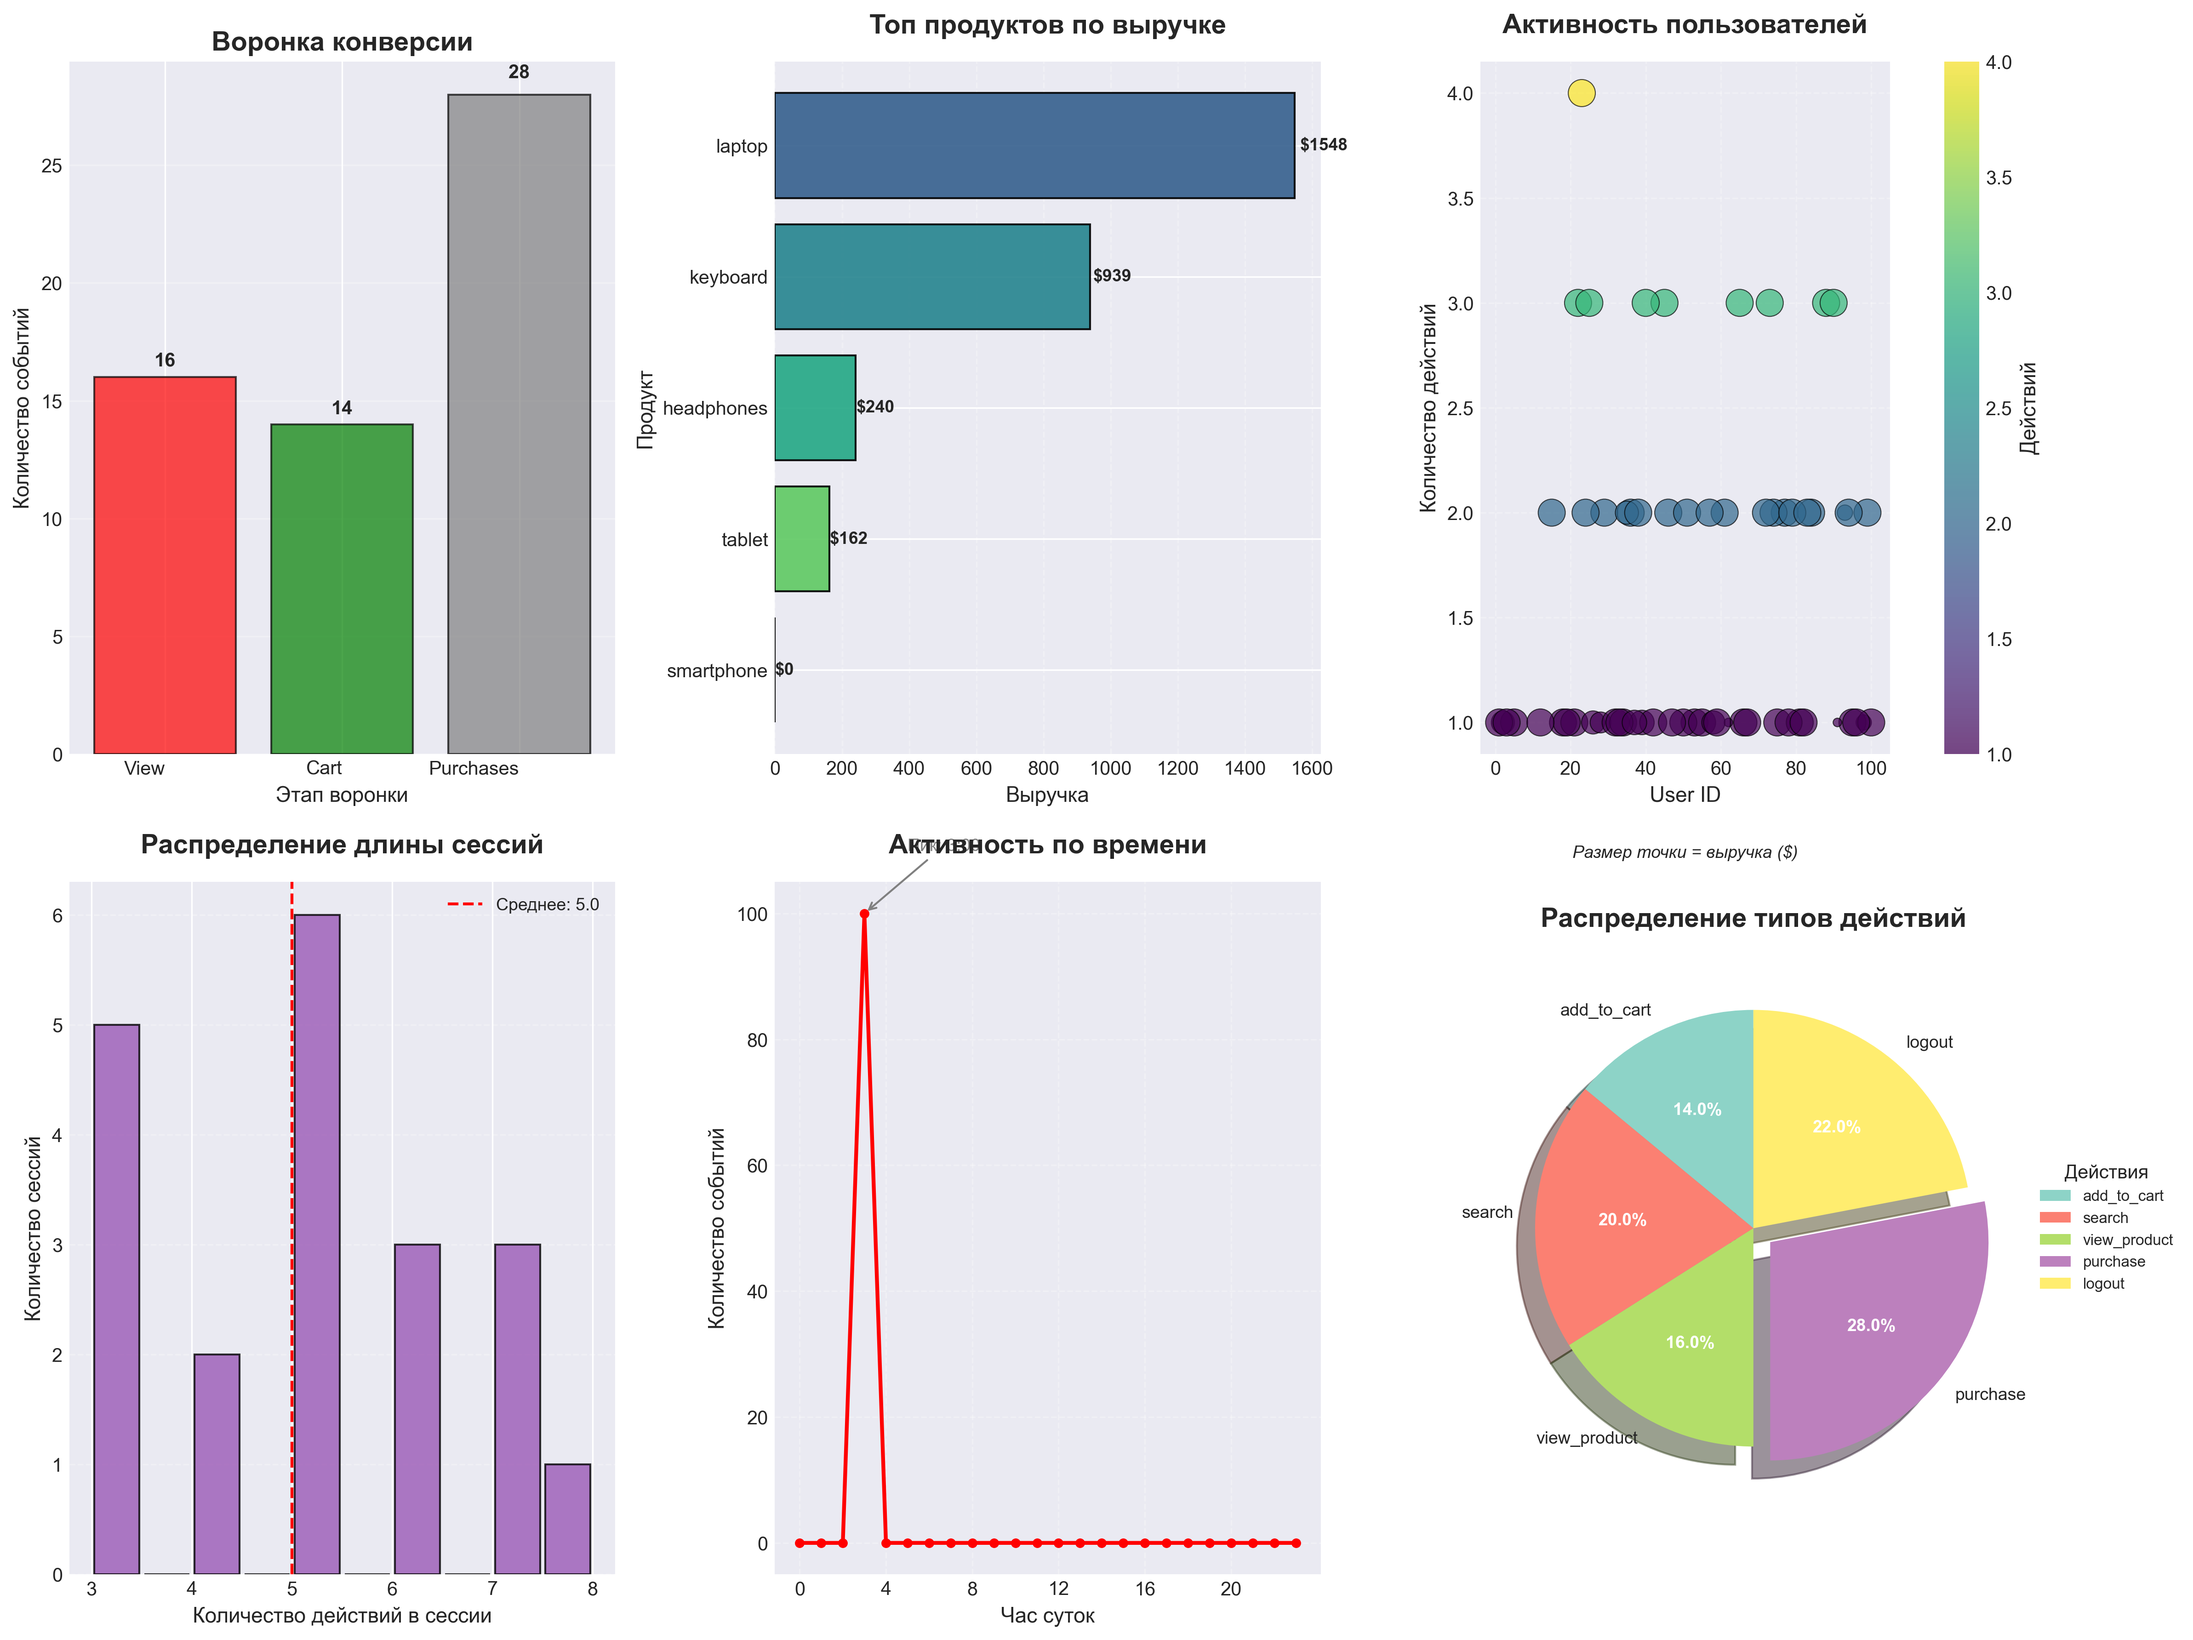
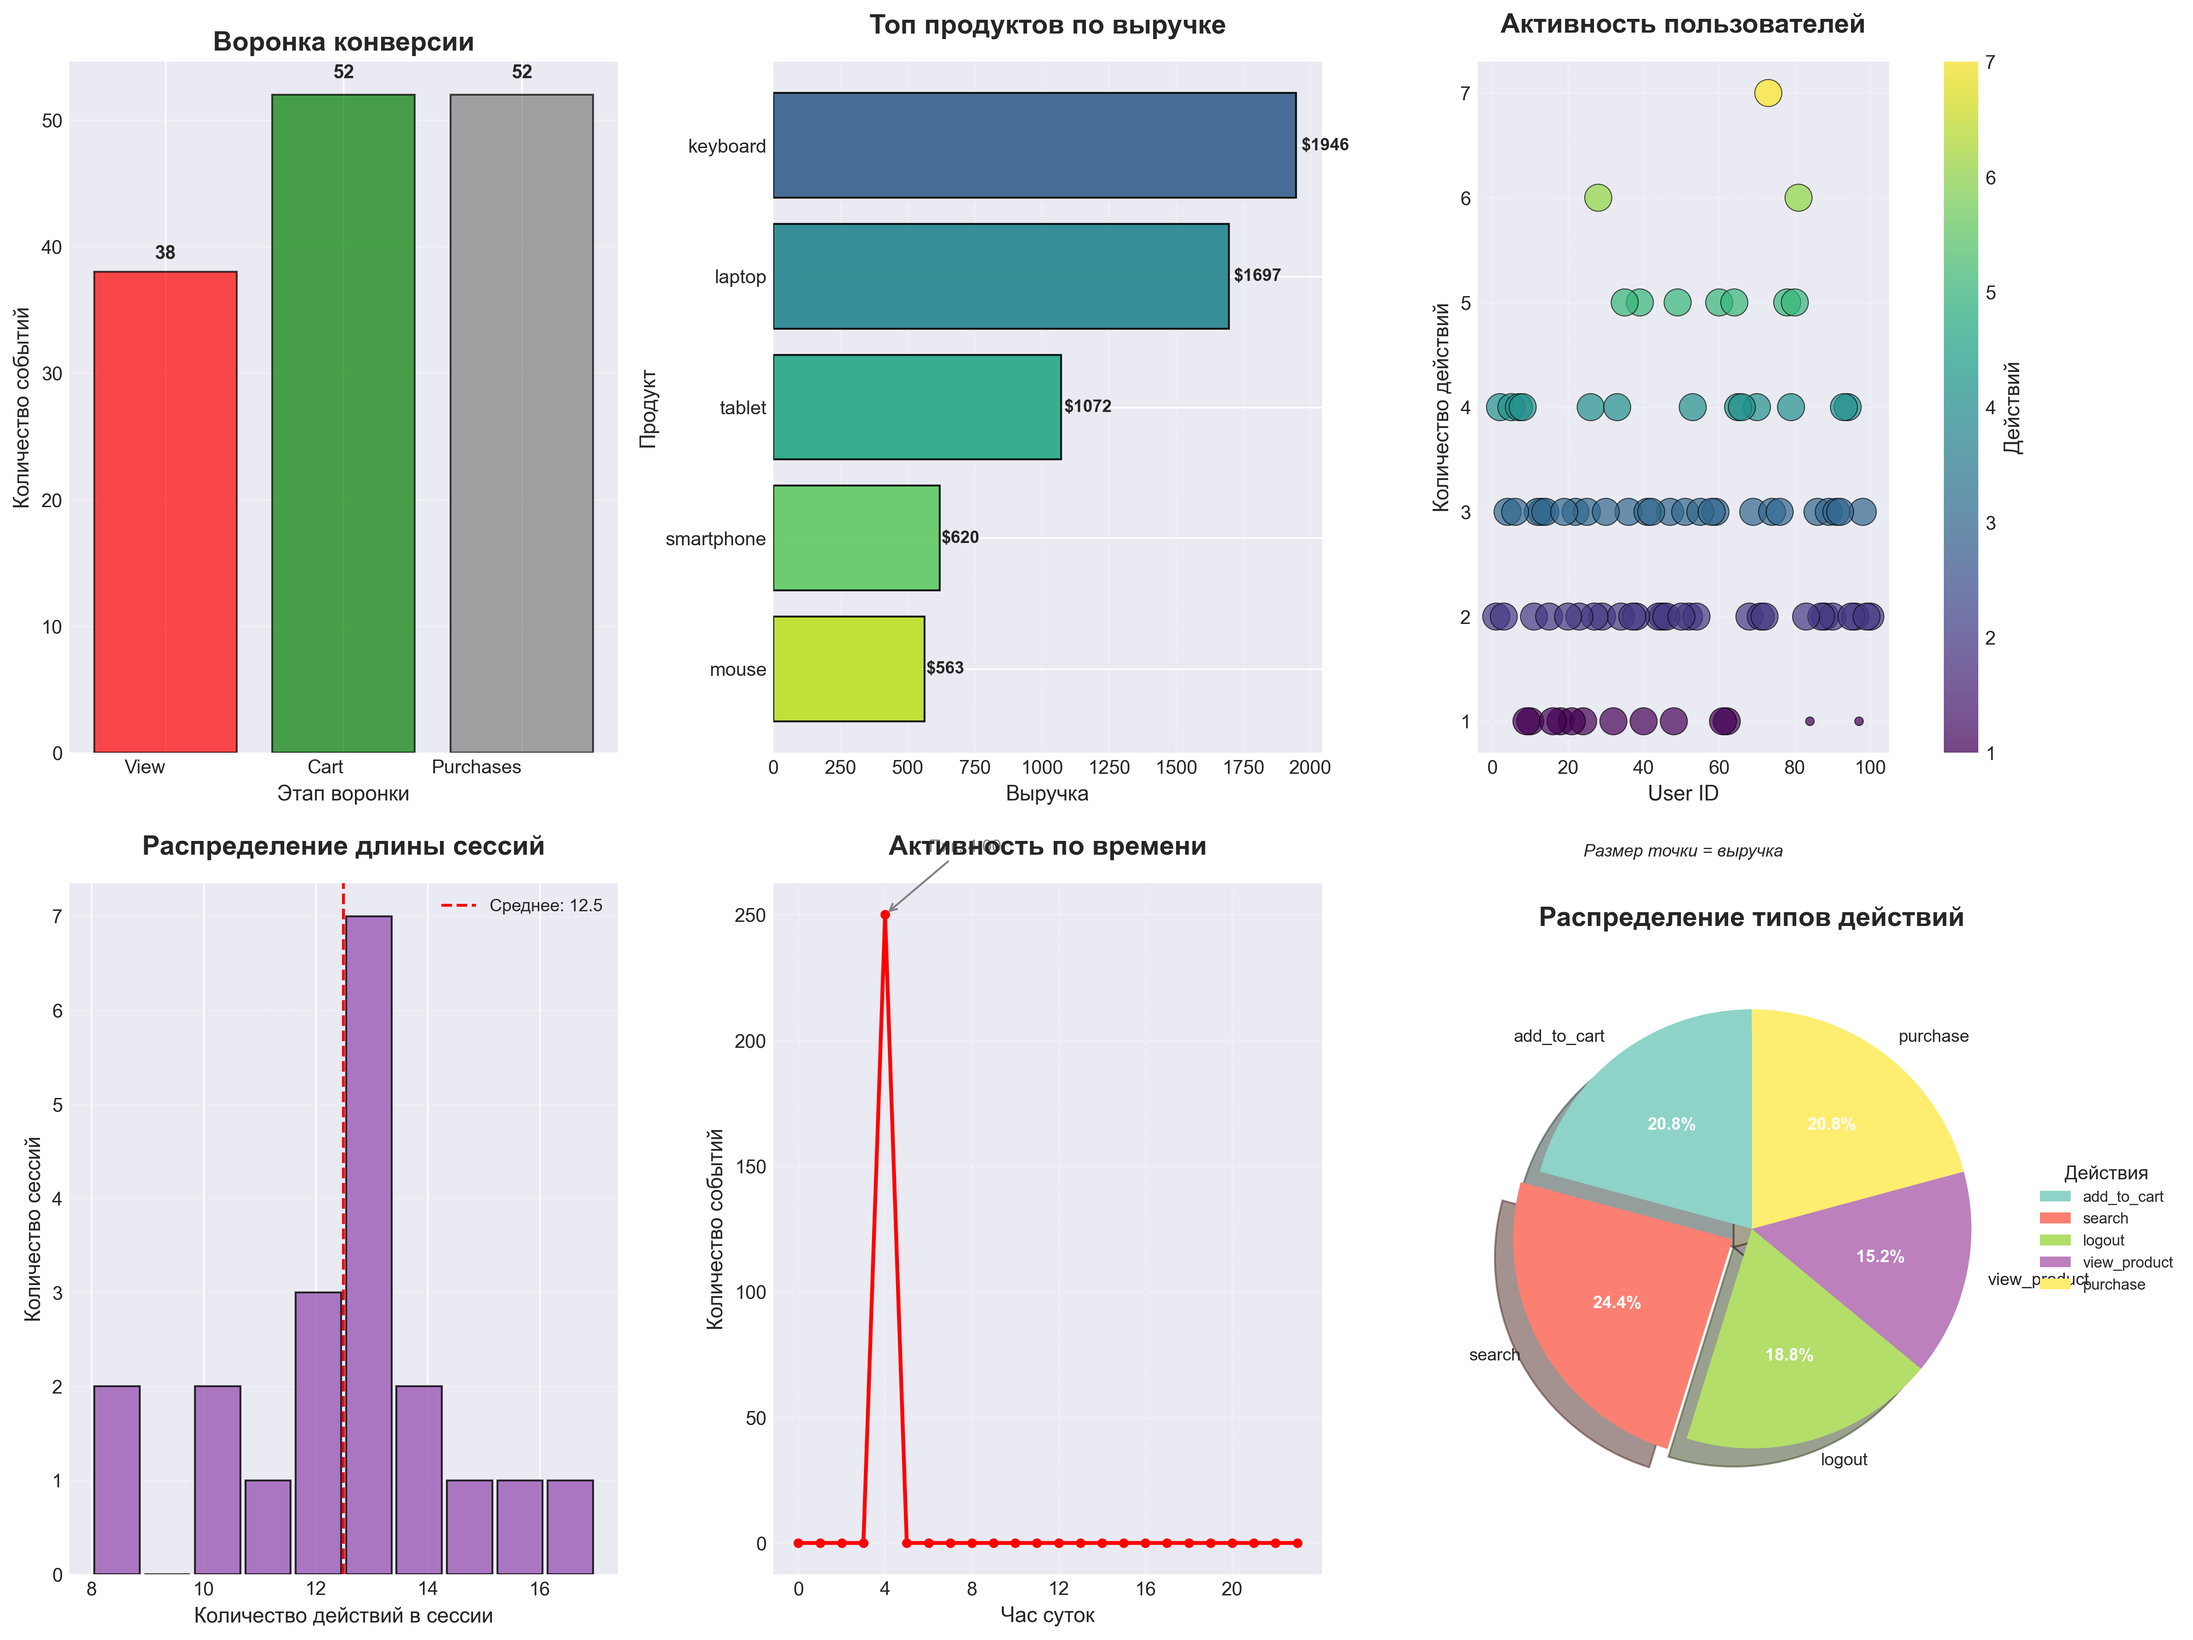
features: Добавлен report.py c class ReportGenerator выводящий executive summary для руководства по основным показателям

diff --git a/scripts/report.py b/scripts/report.py
@@ -1,0 +1,44 @@
+class ReportGenerator:
+    
+    def print_executive_summary(self, metrics, message_count):
+        """
+        Напечатать executive summary для руководства
+        """
+        # Уникальных пользователей
+        unique_users = len(metrics.user_sessions)
+
+        # Конверсия
+        funnel = metrics.conversion_funnel
+        views = funnel.get('view_product', 0)
+        purchases = funnel.get('purchase', 0)
+        conversion_rate = (purchases / views * 100) if views > 0 else 0.0
+
+        # Выручка и Топ-продукт
+        total_revenue = 0.0
+        top_product_name = "N/A"
+        top_product_rev = 0.0
+
+        if metrics.product_performance:
+            # Топ продукт
+            top_product_name, data = max(metrics.product_performance.items(), key=lambda x: x[1]['revenue'])
+            top_product_rev = data['revenue']
+            
+            # Общая выручка
+            total_revenue = sum(item['revenue'] for item in metrics.product_performance.values())
+
+        # Алерты
+        abandoned_count = len(metrics.detect_abandoned_sessions())
+        
+        # 2. Красивый текстовый отчет
+        print("\n" + "=" * 45)
+        print("📊 REAL-TIME ANALYTICS REPORT")
+        print("=" * 45)
+        print(f"\n📈 Обработано событий: {message_count}")
+        print(f"\n👥 Уникальных пользователей: {unique_users}")
+        print(f"\n🛒 Конверсия в покупку: {conversion_rate:.1f}%")
+        print(f"\n💰 Общая выручка: ${total_revenue:,.0f}")
+        print(f"\n⭐ Топ продукт: {top_product_name} (${top_product_rev:,.0f})")
+        print(f"\n⚠ Алерты: {abandoned_count} подозрительных сессий")
+        print("=" * 45 + "\n")
+            
+        

diff --git a/scripts/consumer_demo.py b/scripts/consumer_demo.py
@@ -4,6 +4,7 @@ from metrics import BusinessMetrics
 from alert import AlertManager
 from exporter import DataExporter
 from dashboard import Dashboard
+from report import ReportGenerator
 import numpy as np
 
 consumer = KafkaConsumer(
@@ -18,6 +19,7 @@ metrics = BusinessMetrics()
 alerts = AlertManager()
 exporter = DataExporter()
 dashboard = Dashboard()
+reporter = ReportGenerator()
 
 print("Starting to consume messages...")
 print("Press Ctrl+C to stop and see analytics")
@@ -56,6 +58,7 @@ except KeyboardInterrupt:
     exporter.export_session_data_to_csv(metrics.session_data)
     exporter.save_real_time_metrics(metrics, message_count)
     dashboard.plot_dashboard(metrics)
+    reporter.print_executive_summary(metrics, message_count)
 
 finally:
     consumer.close()

diff --git a/scripts/producer_demo.py b/scripts/producer_demo.py
@@ -28,7 +28,7 @@ print("Starting to send events...")
 print("Press Ctrl+C to stop")
 
 try:
-    for i in range(100):
+    for i in range(250):
         event = generate_user_action()
         producer.send('user-actions', value=event)
         print(f"Event {i + 1}: {event}")

diff --git a/README.md b/README.md
@@ -1,0 +1,16 @@
+=============================================
+📊 REAL-TIME ANALYTICS REPORT
+=============================================
+
+📈 Обработано событий: 250
+
+👥 Уникальных пользователей: 89
+
+🛒 Конверсия в покупку: 136.8%
+
+💰 Общая выручка: $5,898
+
+⭐ Топ продукт: keyboard ($1,946)
+
+⚠ Алерты: 1 подозрительных сессий
+=============================================
